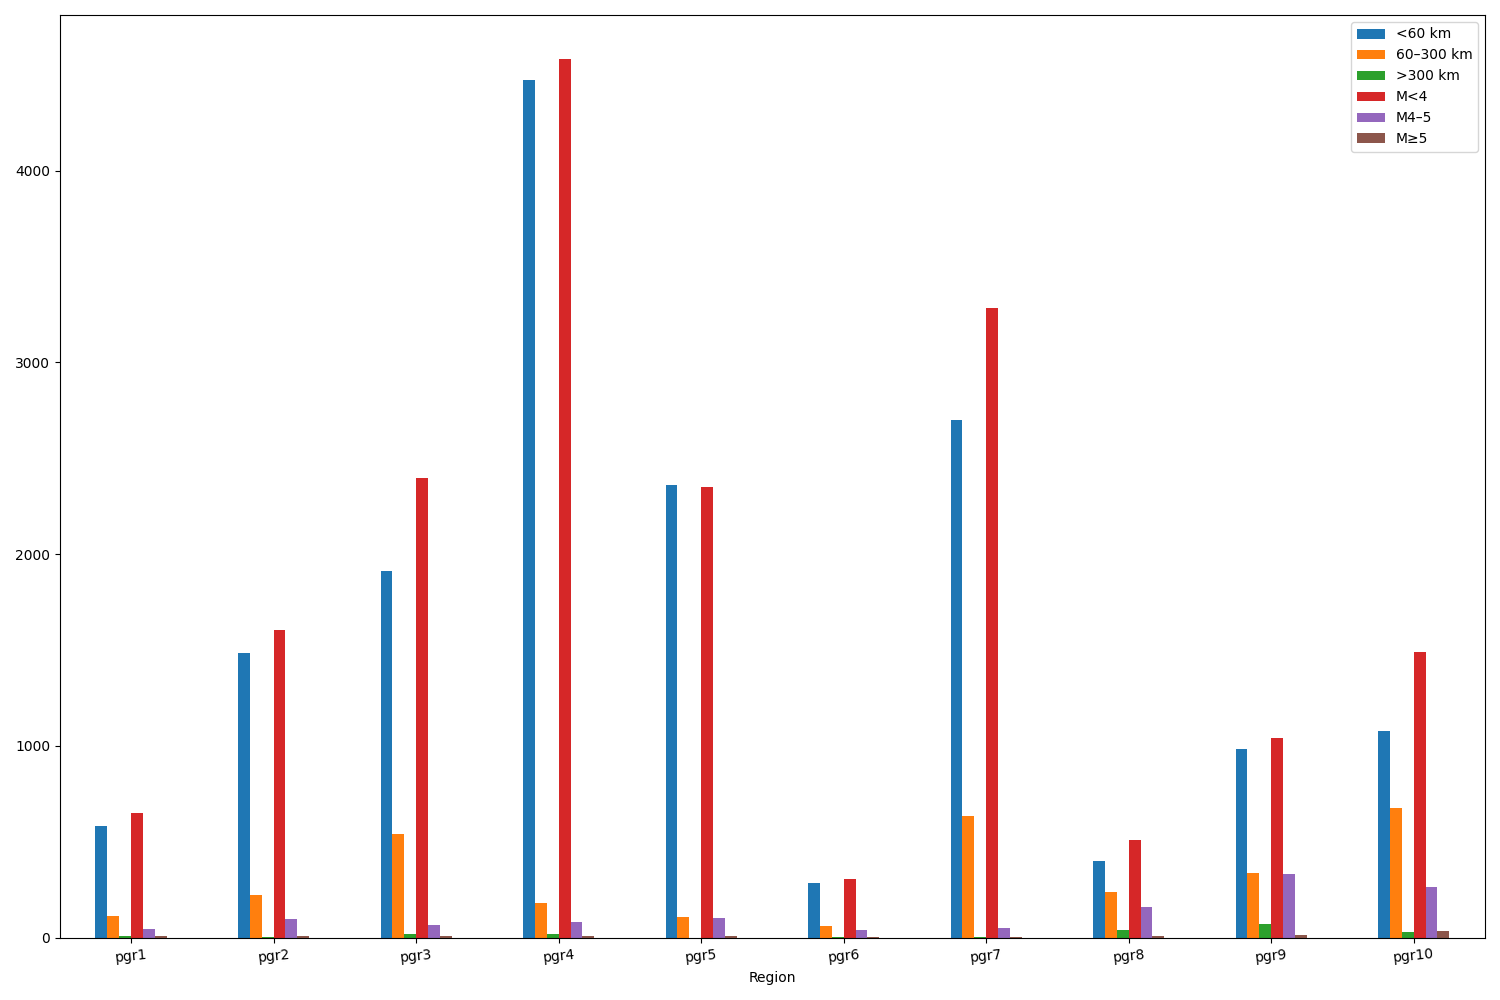
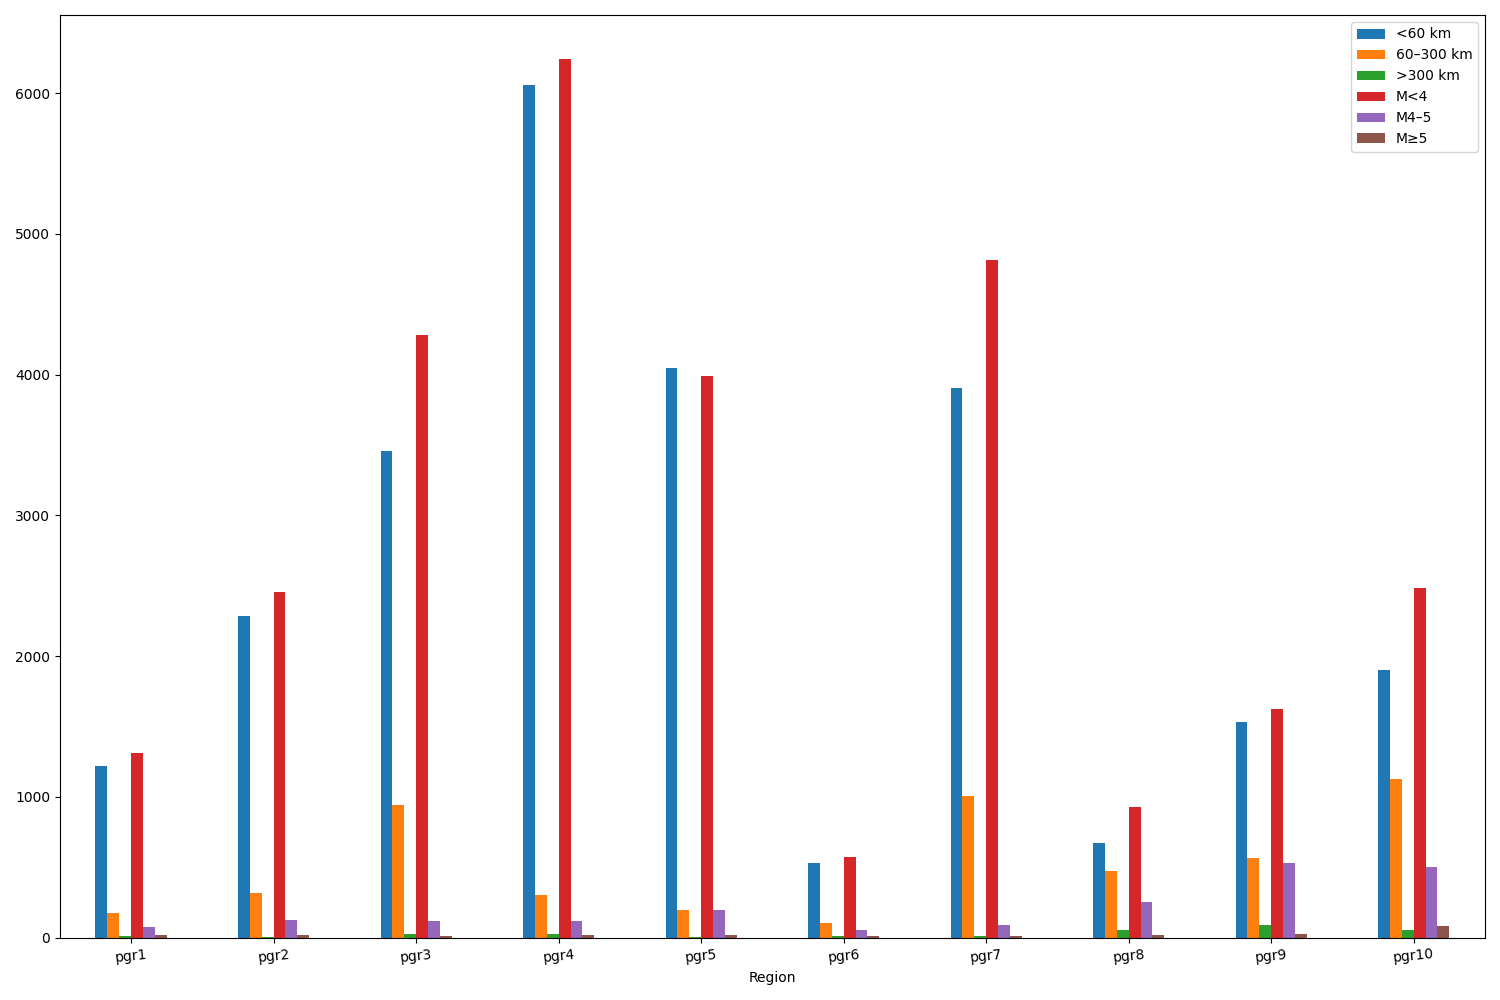
Added CSV support

diff --git a/pages/9_EQ_Katalog-Integrasi_Monev.py b/pages/9_EQ_Katalog-Integrasi_Monev.py
@@ -12,10 +12,6 @@ import cartopy
 from cartopy.io.shapereader import Reader
 from matplotlib.lines import Line2D
 from PIL import Image
-import folium
-from streamlit_folium import st_folium
-import requests
-from calendar import monthrange
 
 # 🌍 Page Config
 st.set_page_config(page_title='Earthquake Dashboard - Katalog Integrasi', layout='wide', page_icon='🌋')
@@ -25,28 +21,12 @@ st.sidebar.subheader("🕒 Select Date Range")
 tim_tod = datetime.datetime.today()
 tim_yea = tim_tod.year - (1 if tim_tod.month == 1 else 0)
 tim_mon = (12 if tim_tod.month == 1 else tim_tod.month - 1)
-dat_end_def = datetime.datetime(
-    year=tim_yea,
-    month=tim_mon,
-    day=monthrange(tim_yea, tim_mon)[1],
-    hour=23,
-    minute=59,
-    second=59
-)
-dat_sta_def = datetime.datetime(
-    year=tim_yea,
-    month=tim_mon,
-    day=1,
-    hour=0,
-    minute=0,
-    second=0
-)
 
 # 📄 Upload Excel file
-uploaded_file = st.sidebar.file_uploader("Upload Excel File", type=["xlsx"])
+fil_upl = st.sidebar.file_uploader("Upload the CSV or Excel file", type=["csv", "xlsx"])
 
-if uploaded_file is not None:
-    df = pd.read_excel(uploaded_file)
+if fil_upl is not None:
+    df = pd.DataFrame((pd.read_csv if fil_upl.name.endswith(".csv") else pd.read_excel)(fil_upl))
     df.rename(columns={"LAT_FIX": "LAT", "LON_FIX": "LON"}, inplace=True)
     st.success("File uploaded and data loaded successfully!")
     st.write(df.head())  # Preview first rows
